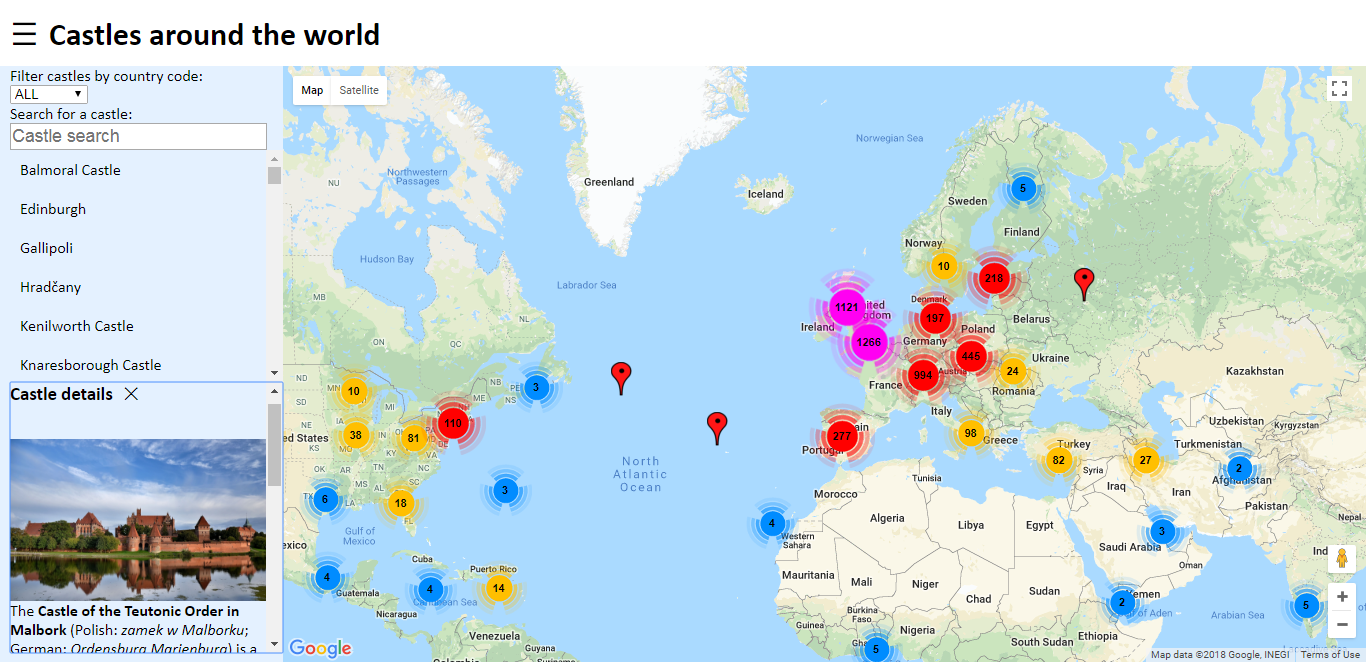
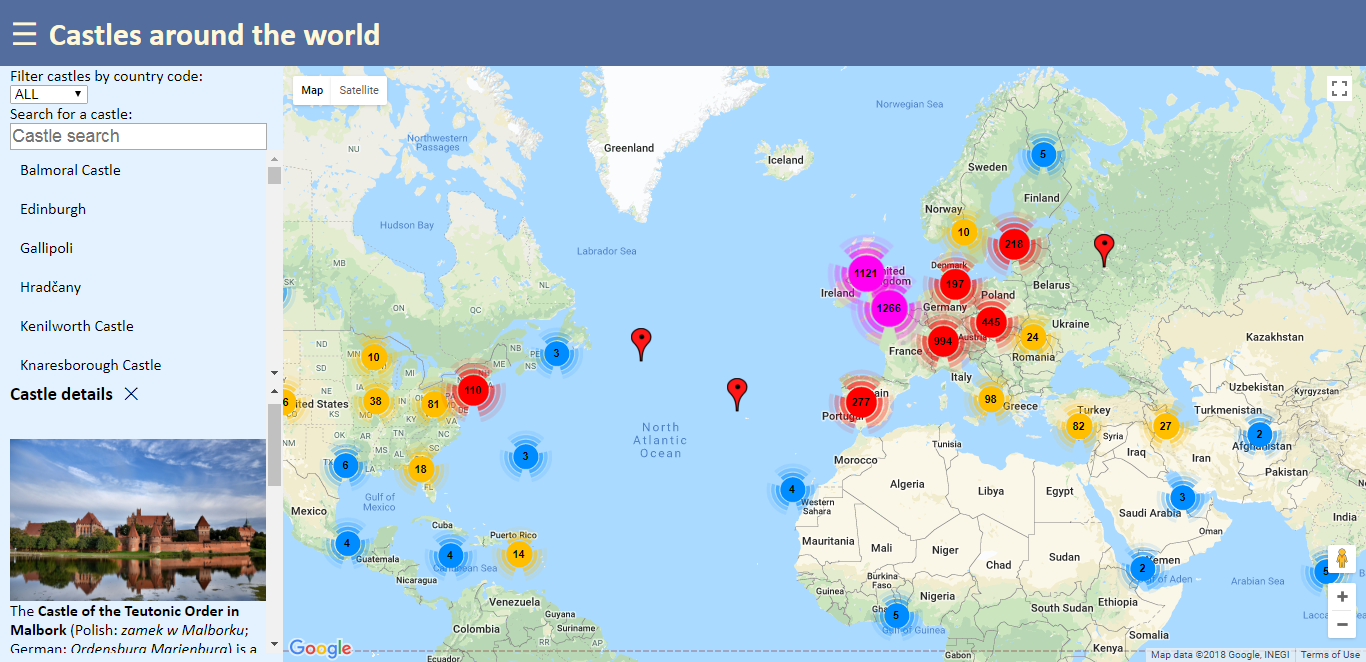
styling changes of header. new thumbnail image

diff --git a/src/App.css b/src/App.css
@@ -12,6 +12,8 @@ html, body {
 
 header {
   height: 10vh;
+  background: #526d9e;
+  color: #fff7da;
 }
 
 .sidebar-opener {
@@ -20,6 +22,11 @@ header {
   cursor: pointer;
   background: inherit;
   border: none;
+  color: #fff7da;
+}
+
+.sidebar-opener:focus {
+  outline-color: #fff7da;
 }
 
 h1 {
